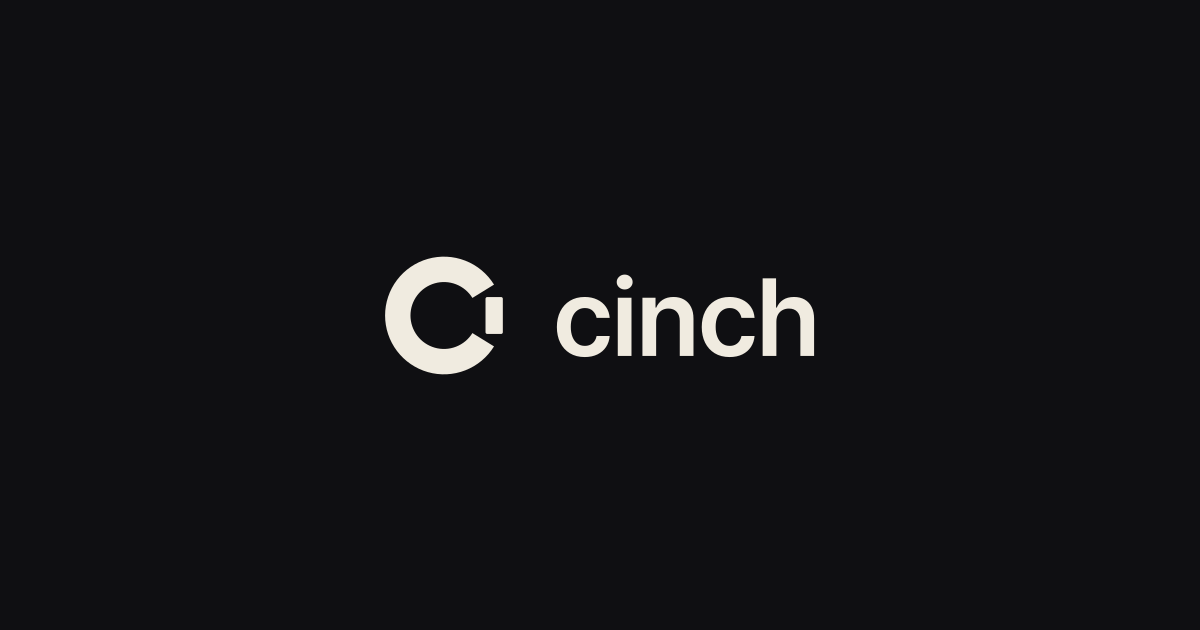
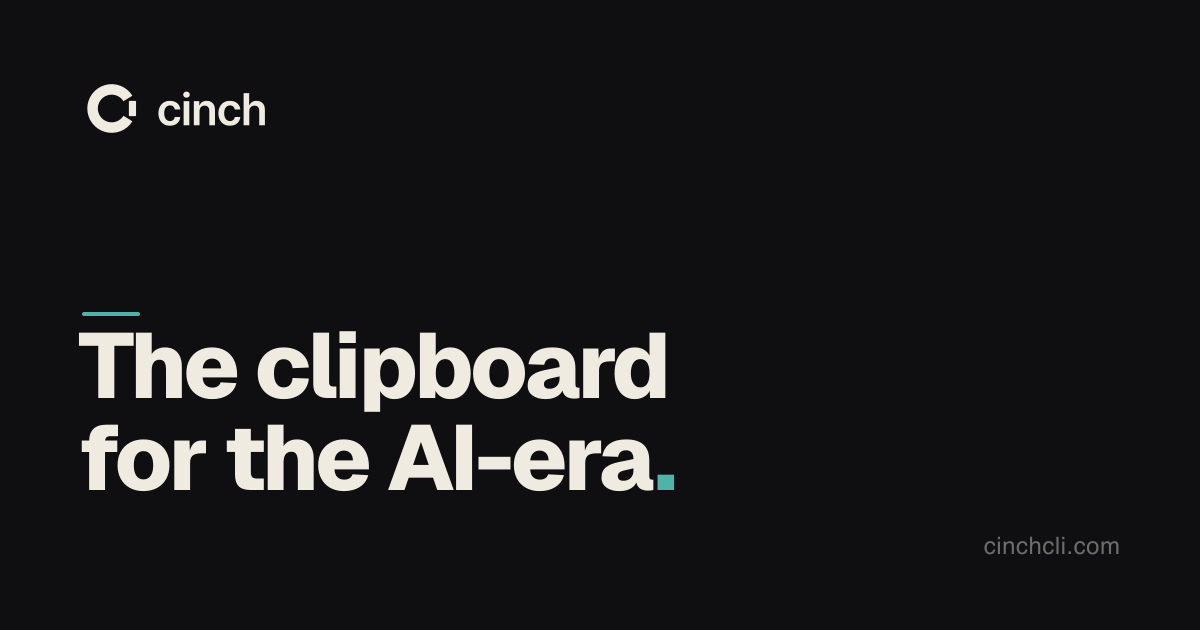
feat(web): redesign og-image (editorial) and unify theme-color to ink
og-image: drop the subhead sentence and rebuild as an editorial layout —
ink background, a small mark+wordmark lockup top-left, a short teal accent
rule, a big left-aligned two-line headline "The clipboard / for the AI-era."
in Geist ExtraBold with a teal period, and cinchcli.com in Geist Mono
bottom-right. Rendered with the locally installed Geist / Geist Mono fonts.

theme-color: unify to ink #0F0F12 (was the teal accent #4FB3A9) across
site.webmanifest, Landing.astro and astro.config.ts. Teal stays the
in-content accent only — not a chrome/surface color.

diff --git a/astro.config.ts b/astro.config.ts
@@ -92,7 +92,7 @@ export default defineConfig({
         { tag: 'link', attrs: { rel: 'icon', href: '/favicon.ico', sizes: '32x32' } },
         { tag: 'link', attrs: { rel: 'apple-touch-icon', href: '/apple-touch-icon.png' } },
         { tag: 'link', attrs: { rel: 'manifest', href: '/site.webmanifest' } },
-        { tag: 'meta', attrs: { name: 'theme-color', content: '#4FB3A9' } },
+        { tag: 'meta', attrs: { name: 'theme-color', content: '#0F0F12' } },
         { tag: 'meta', attrs: { property: 'og:image', content: 'https://cinchcli.com/og-image.png' } },
         { tag: 'meta', attrs: { property: 'og:site_name', content: 'Cinch' } },
         { tag: 'meta', attrs: { name: 'twitter:card', content: 'summary_large_image' } },
